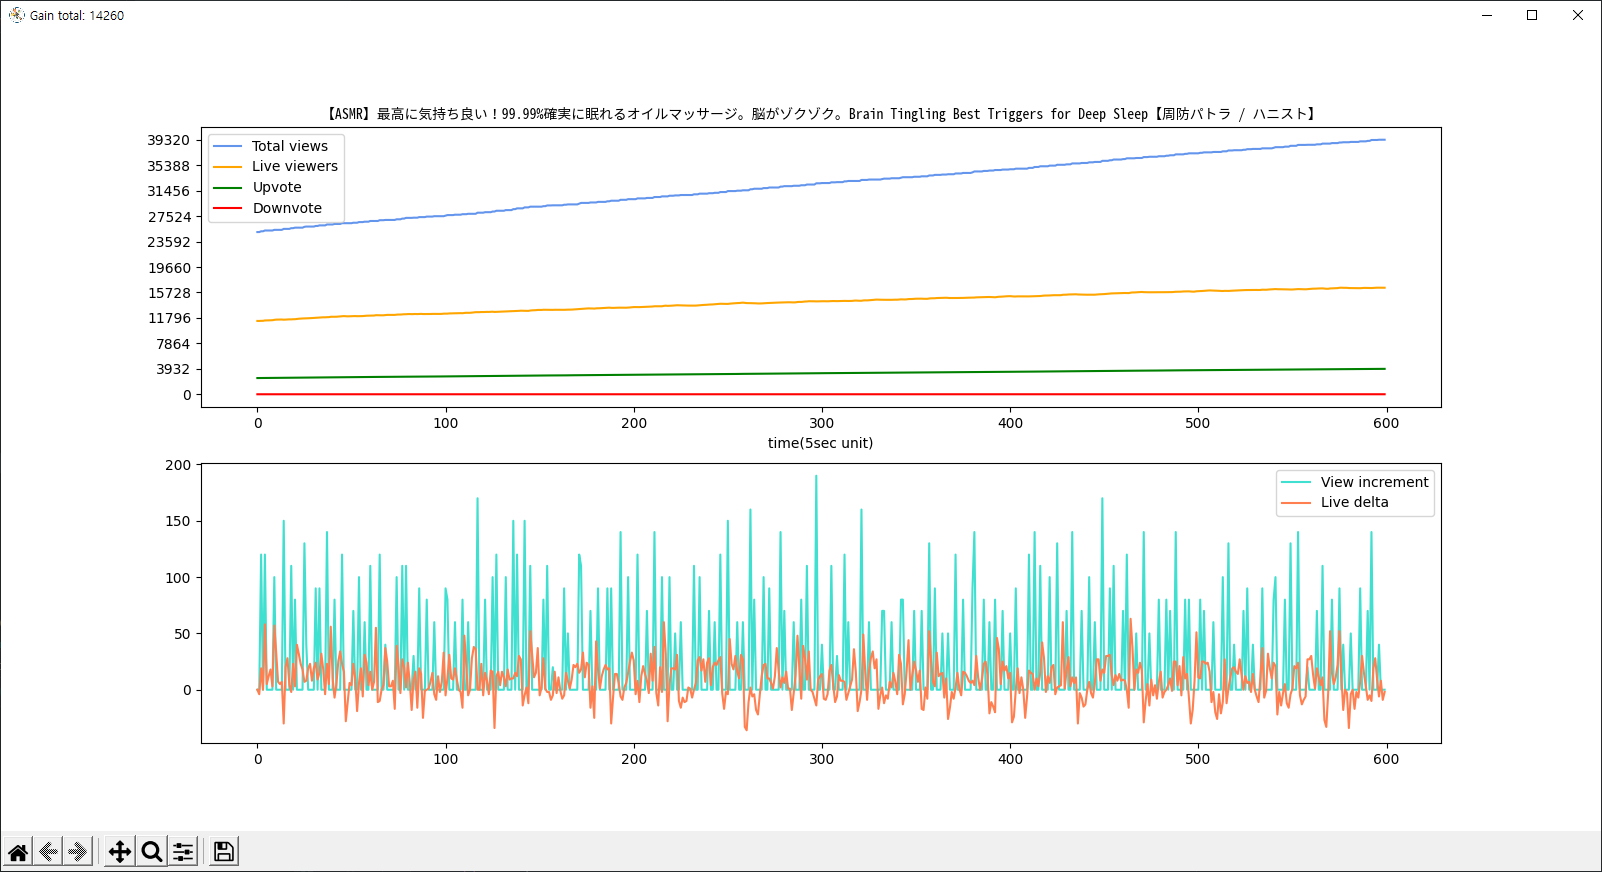
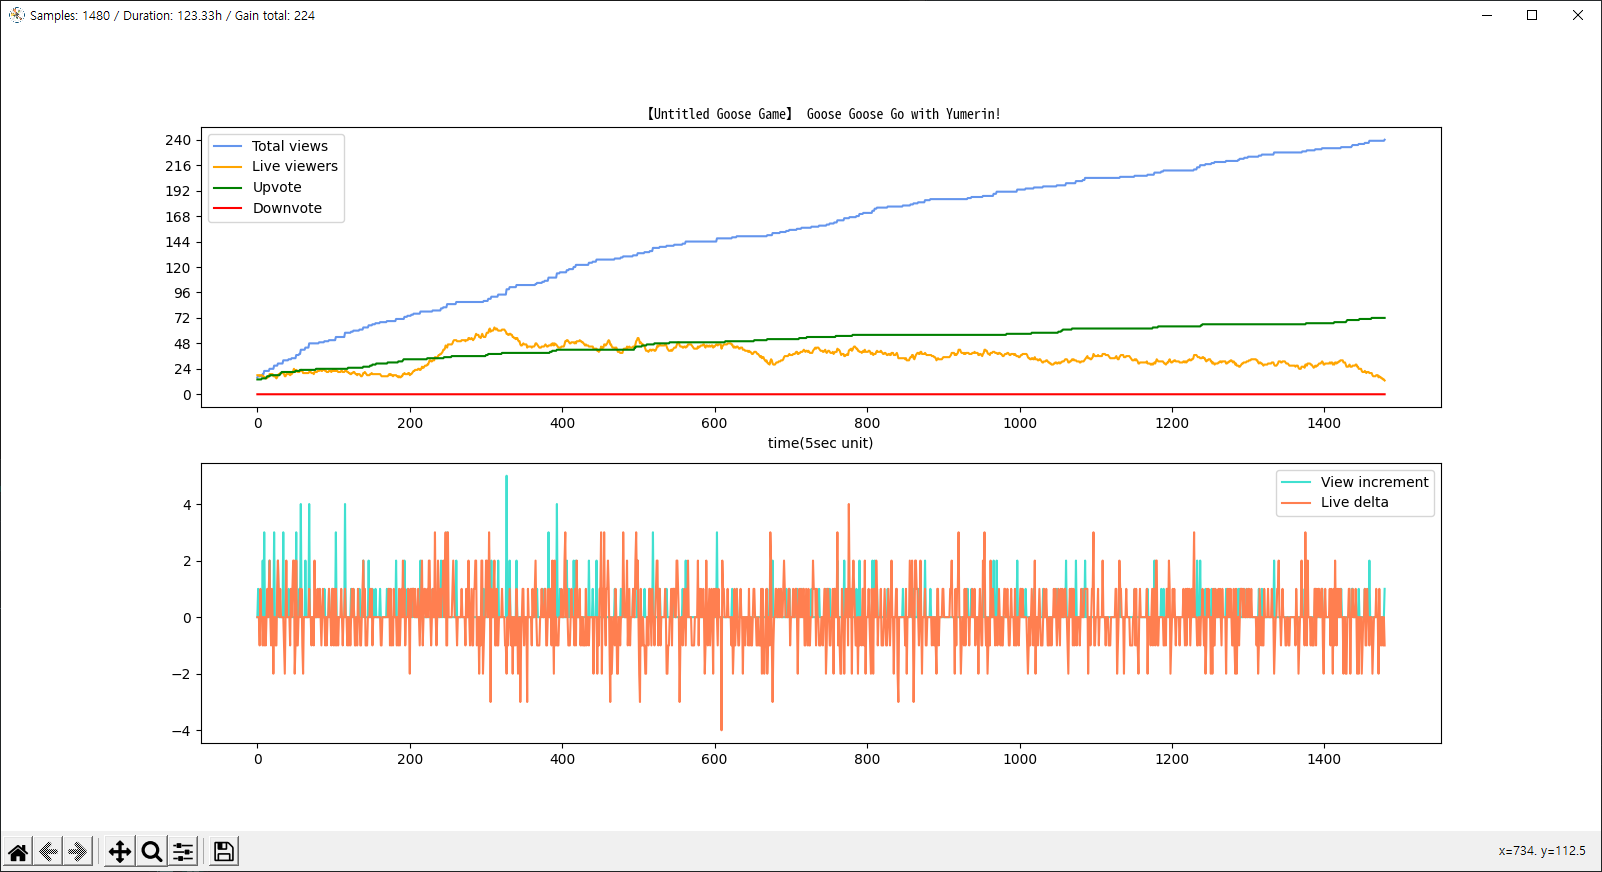
Now display number of samples, and approx. sample duration

diff --git a/YoutubeStreamStatLogger/logged_data_viewer.py b/YoutubeStreamStatLogger/logged_data_viewer.py
@@ -57,12 +57,15 @@ def plot_main(mapping):
     data = mapping["data"]
     gain_total = max(data["viewCount"]) - min(data["viewCount"])
 
-    view_gain, live_fluctuation = viewer_fluctuation_data(data["viewCount"], data["concurrentViewers"])
+    view_gain, fluctuation = viewer_fluctuation_data(data["viewCount"], data["concurrentViewers"])
 
     figure, axes = pyplot.subplots(2, 1, figsize=(16, 8))
     assert figure
 
-    pyplot.get_current_fig_manager().set_window_title(f"Gain total: {gain_total}")
+    fig_manager = pyplot.get_current_fig_manager()
+    fig_manager.set_window_title(f"Samples: {len(view_gain)} / "
+                                 f"Duration: {len(view_gain) * interval / 60:0.2f}h / "
+                                 f"Gain total: {gain_total}")
 
     # Plot 1
     axes[0].set_title(title, fontproperties=font)
@@ -79,7 +82,7 @@ def plot_main(mapping):
 
     # Plot 2
     axes[1].plot(view_gain, color="turquoise", label="View increment")
-    axes[1].plot(live_fluctuation, color="coral", label="Live delta")
+    axes[1].plot(fluctuation, color="coral", label="Live delta")
     axes[1].legend()
 
     pyplot.show()
